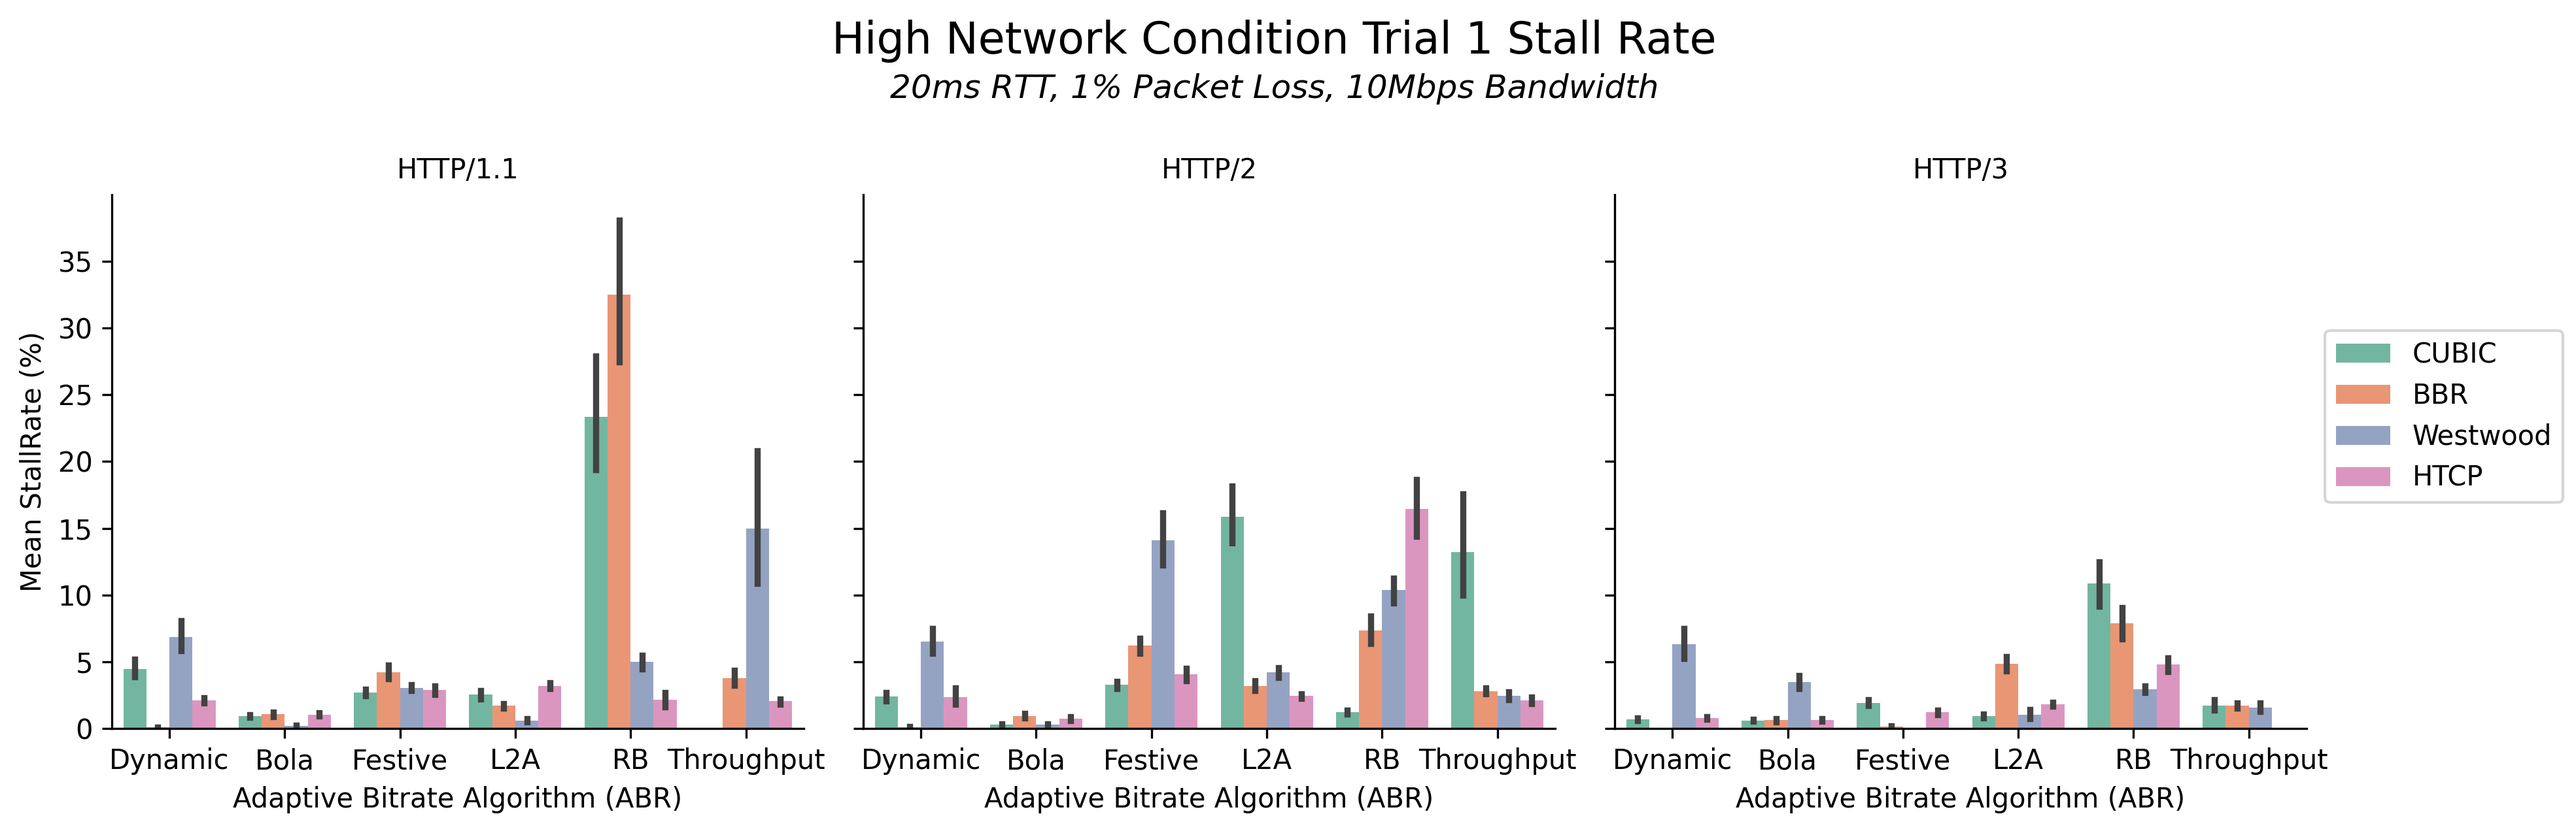
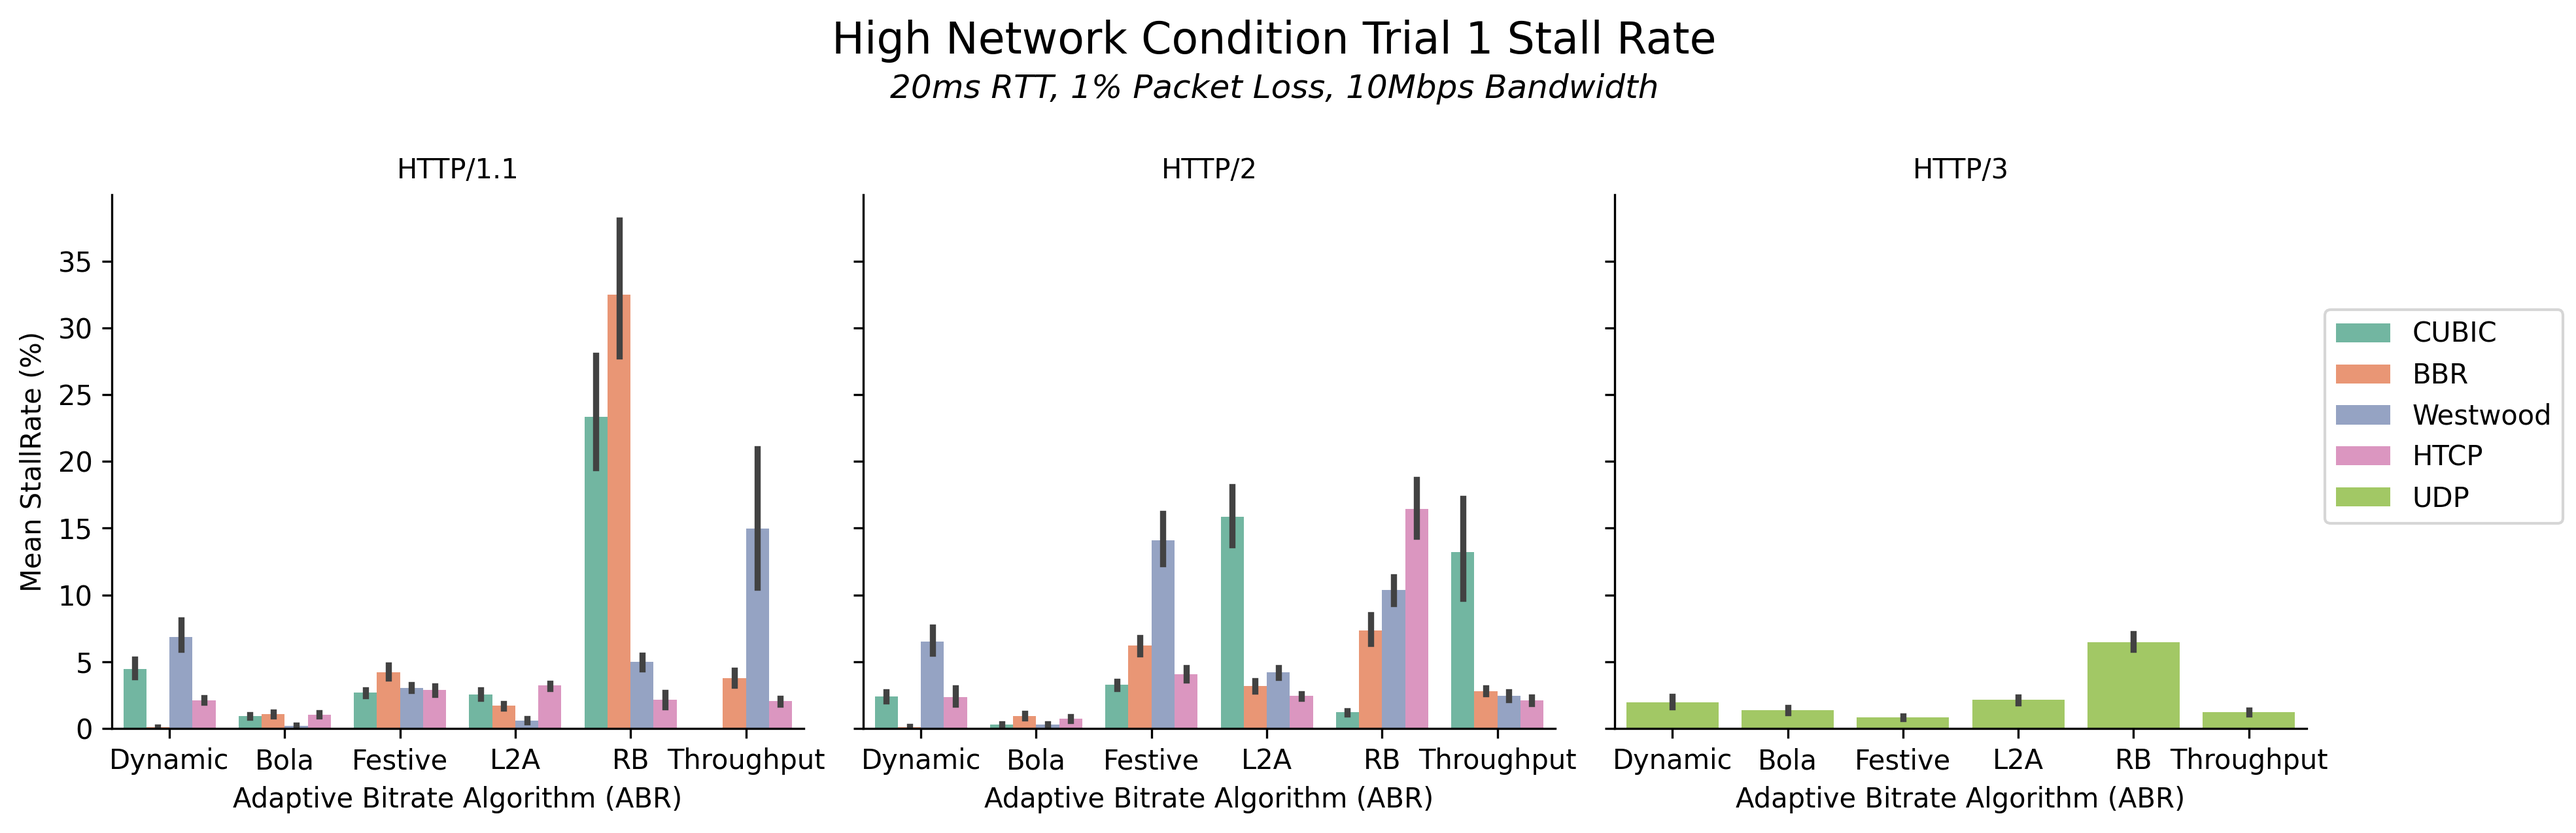
unique chart colors

Changed region(s): [[0.6245, 0.6729, 0.9056, 0.8871], [0.9056, 0.3671, 0.9992, 0.6424]]

diff --git a/client-test-script/main.js b/client-test-script/main.js
@@ -49,19 +49,31 @@ wss.on("connection", function connection(ws) {
 
     const dataPoint = JSON.parse(data);
 
-    // We only care about bitrate and stall rate
     if (
       true ||
       dataPoint["metricsName"] === "bitrate" ||
       dataPoint["metricsName"] === "stallRate"
     ) {
-      insert.run(
-        dataPoint["testName"],
-        new Date().toLocaleString(),
-        dataPoint["metricsName"],
-        dataPoint["metricsTime"],
-        dataPoint["metricsValue"]
-      );
+      try {
+        insert.run(
+          dataPoint["testName"],
+          new Date().toLocaleString(),
+          dataPoint["metricsName"],
+          dataPoint["metricsTime"],
+          dataPoint["metricsValue"]
+        );
+      } catch (err) {
+        console.error(
+          dataPoint["metricsValue"],
+          typeof dataPoint["metricsValue"]
+        );
+
+        try {
+          JSON.stringify(dataPoint["metricsValue"]);
+        } catch (err) {
+          console.error("It Failed.");
+        }
+      }
     }
   });
 });

diff --git a/analysis/main.py b/analysis/main.py
@@ -52,6 +52,7 @@ def load_db(db_name):
     df["cc"] = df["cc"].apply(lambda x: str(x).split()[0])
     df = df.drop("name", axis=1)
     df["metricValue"] = pd.to_numeric(df["metricValue"], errors="coerce")
+
     return df
 
 
@@ -92,10 +93,44 @@ def filter_df(df, title):
 def plot(df, title, subtitle, xlabel, ylabel, out_filename):
     df = df.reset_index()
 
+    # Filter for HTTP/3 rows
+    http3_df = df[df["http"] == "HTTP/3"]
+
+    # Aggregate by 'time'
+    udp_rows = (
+        http3_df.groupby("time", as_index=False)
+        .agg({
+            "metricValue": "mean",
+            "metric": "first",
+            "metricTime": "first",
+            "video": "first",
+            "abr": "first",
+            "http": "first"
+        })
+    )
+    udp_rows["cc"] = "UDP"
+    df = pd.concat([df, udp_rows], ignore_index=True)
+    
+    unique_ccs = df["cc"].unique()
+    palette = sns.color_palette("Set2", n_colors=len(unique_ccs))
+    cc_color_map = dict(zip(unique_ccs, palette))
+
+    # print(cc_color_map)
+
+
+    # Append the new UDP rows to the original dataframe
+    df = df[
+        ((df["http"].isin(["HTTP/1.1", "HTTP/2"]))) |
+        ((df["http"] == "HTTP/3") & (df["cc"] == "UDP"))
+    ]
+
+
+    
+
     # t_df = df[(df["cc"] == "Westwood") & (df["abr"] == "Festive")]
     # print(t_df.groupby(["http", "cc", "abr"]).agg({"metricValue": "mean"}))
 
-    palette = sns.color_palette("Set2", n_colors=4)
+    #palette = sns.color_palette("Set2", n_colors=5)
 
     g = sns.FacetGrid(df, col="http", height=4, aspect=1.2)
     g.figure.set_size_inches(12, 4)
@@ -115,7 +150,7 @@ def plot(df, title, subtitle, xlabel, ylabel, out_filename):
         y="metricValue",
         hue="cc",
         estimator="mean",
-        palette=palette,
+        palette=cc_color_map,
     )
 
     g.set_axis_labels(xlabel, ylabel)
